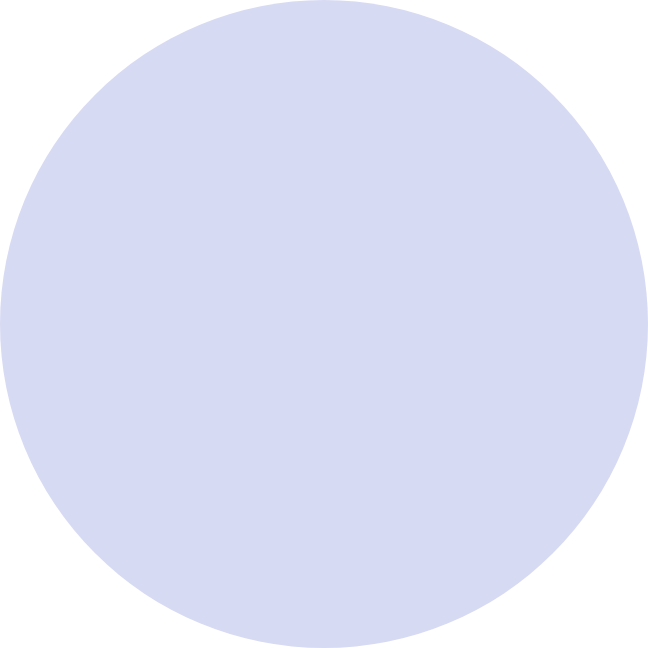
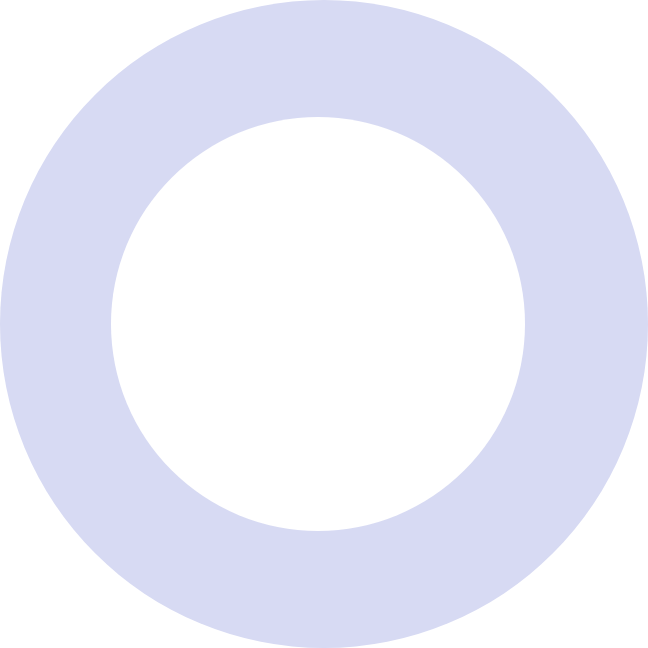
product title with first image done;

diff --git a/src/components/products/index.js b/src/components/products/index.js
@@ -3,30 +3,33 @@ import styled from "styled-components";
 
 import CallToAction from '../call-to-action';
 
+import circle from '../../images/product-circle.png';
+import leftg from '../../images/product-leftg.png';
+import rightg from '../../images/product-rightg.png';
+import triangle from '../../images/product-triangle.png';
+import heroRight from '../../images/product-right.png';
 import tempimg from '../../images/temp.png';
-import blob from '../../images/how-blob.png';
-import circle from '../../images/how-circle.png';
+
 
 const ProductWrapper = styled.div`
     position: relative;
     overflow: hidden;
     margin-top: -70px;
     background-color: #EFF9FB;
+    z-index: 1;
 
-    .blob-bump {
-        width: 100%;
-        height: 150px;
+    .circle-img {
         position: absolute;
         top: 0;
-        background-color: #FEE6D4;
-    }
-
-    .blob {
-        position: absolute;
-        top: 150px;
-        right: 0;
+        left: 0;
+        width: 600px;
+        height: 600px;
+        background-image: url(${circle});
+        transform: translate(-40%, -30%);
+        background-position: center;
+        background-size: cover;
+        opacity: 0.8;
         z-index: -1;
-        width: 100%;
     }
 
     @media screen and (max-width: 750px) {
@@ -35,13 +38,21 @@ const ProductWrapper = styled.div`
 `;
 
 const ProductSectionTitle = styled.section`
+    margin-top: 70px;
+
     .flex-box { align-items: center; }
 
     .item.right {
-        flex-basis: 50%;
+        flex-basis: 30%;
         img {
             width: 100%;
         }
+    }
+
+    h2 { 
+        font-size: 50px; 
+        text-align: left;
+        z-index: 2;
     }
 
     @media screen and (max-width: 750px) {
@@ -113,14 +124,15 @@ const ProductSectionContent = styled.section`
 `;
 
 const Product = () => (
-    <ProductWrapper id="how-it-works">
-        <div className="blob-bump"></div>
-        <img src={blob} className="blob" alt="blob for background"/>
+    <ProductWrapper id="product">
+        <div img={circle} className="circle-img"></div>
         <div className="container">
             <ProductSectionTitle>
                 <div className="flex-box two-items container">
                     <div className="item left">
-                        <h2>How It Works</h2>
+                        <h2>
+                            Modernizing the underwriting formula, by understanding velocity and volatility.
+                        </h2>
                     </div>
                     <div className="item right">
                         <img src={tempimg} alt="temporary img" />
